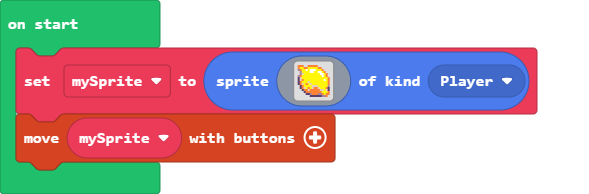
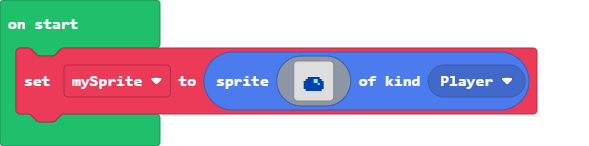
Step3-1

diff --git a/main.ts b/main.ts
@@ -1,19 +1,18 @@
 let mySprite = sprites.create(img`
-    4 4 4 . . 4 4 4 4 4 . . . . . . 
-    4 5 5 4 4 5 5 5 5 5 4 4 . . . . 
-    b 4 5 5 1 5 1 1 1 5 5 5 4 . . . 
-    . b 5 5 5 5 1 1 5 5 1 1 5 4 . . 
-    . b d 5 5 5 5 5 5 5 5 1 1 5 4 . 
-    b 4 5 5 5 5 5 5 5 5 5 5 1 5 4 . 
-    c d 5 5 5 5 5 5 5 5 5 5 5 5 5 4 
-    c d 4 5 5 5 5 5 5 5 5 5 5 1 5 4 
-    c 4 5 5 5 d 5 5 5 5 5 5 5 5 5 4 
-    c 4 d 5 4 5 d 5 5 5 5 5 5 5 5 4 
-    . c 4 5 5 5 5 d d d 5 5 5 5 5 b 
-    . c 4 d 5 4 5 d 4 4 d 5 5 5 4 c 
-    . . c 4 4 d 4 4 4 4 4 d d 5 d c 
-    . . . c 4 4 4 4 4 4 4 4 5 5 5 4 
-    . . . . c c b 4 4 4 b b 4 5 4 4 
-    . . . . . . c c c c c c b b 4 . 
+    . . . . . . . . . . . . . . . . 
+    . . . . . . . . . . . . . . . . 
+    . . . . . . . . . . . . . . . . 
+    . . . . . . . . . . . . . . . . 
+    . . . . . . . . . . . . . . . . 
+    . . . . . . . . . . . . . . . . 
+    . . . . . 8 8 8 8 8 8 . . . . . 
+    . . . . 8 8 8 8 9 9 8 8 . . . . 
+    . . . 8 8 8 8 8 9 9 8 8 8 . . . 
+    . . . 8 8 8 8 8 8 8 9 8 8 . . . 
+    . . . 8 8 8 8 8 8 8 8 8 8 . . . 
+    . . . 8 8 8 8 8 8 8 8 8 8 . . . 
+    . . . . 8 8 8 8 8 8 8 8 . . . . 
+    . . . . . . . . . . . . . . . . 
+    . . . . . . . . . . . . . . . . 
+    . . . . . . . . . . . . . . . . 
     `, SpriteKind.Player)
-controller.moveSprite(mySprite)

diff --git a/main.py b/main.py
@@ -1,0 +1,1 @@
+game.show_long_text("Hello, World!", DialogLayout.CENTER)
